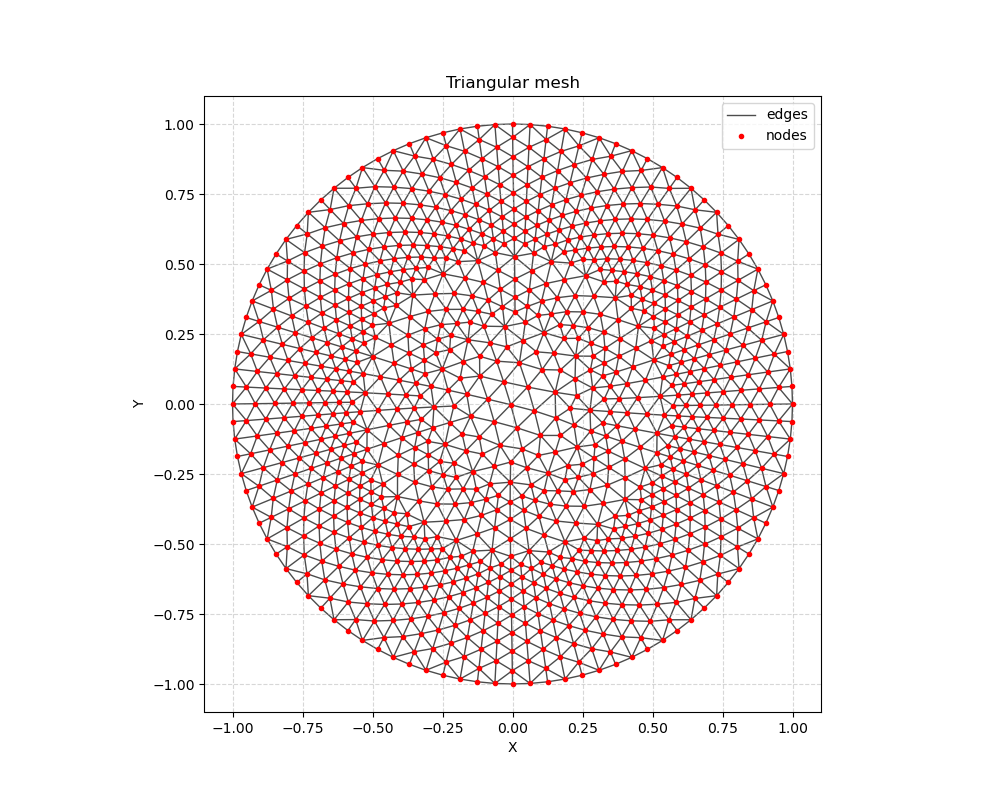
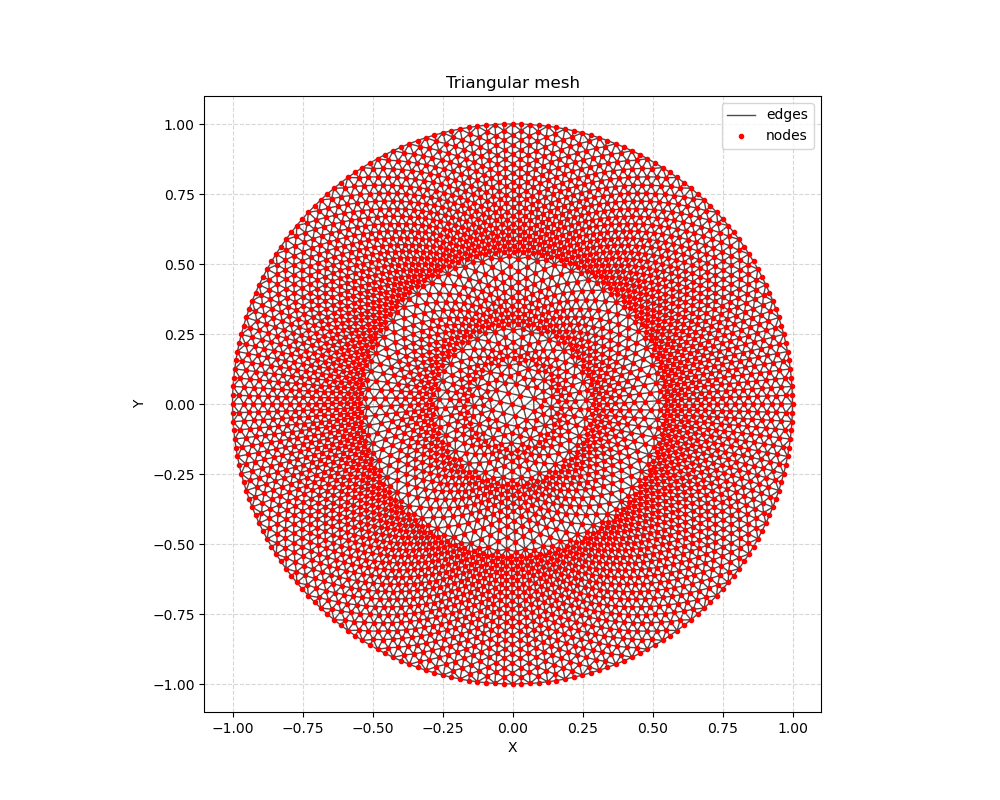
Work on Newmark

Changed region(s): [[0.217, 0.1562, 0.806, 0.875]]

diff --git a/MES2D/main.cpp b/MES2D/main.cpp
@@ -13,7 +13,7 @@
 Eigen::Matrix2d laplace_tensor(Position r)
 {
     Eigen::Matrix2d A;
-    A<<10.0, 0.0,
+    A<<1.0, 0.0,
         0.0, 1.0;
     return A;
 }
@@ -28,12 +28,17 @@ double bc_func(Position r)
     return 0.0;
 }
 
+Eigen::Vector2d v(Position r)
+{
+    return {r.y(), -r.x()};
+}
+
 int main()
 {
     GeometryParameters geoparam{
-        100,
-        2*sin(M_PI/100),
-        2*0.5*sin(M_PI/100),
+        200,
+        2*sin(M_PI/200),
+        2*0.5*sin(M_PI/200),
         100
     };
 
@@ -67,6 +72,9 @@ int main()
     std::vector<std::shared_ptr<LinearOperator>> linear_ops;
 
     bilinear_ops.push_back(std::make_shared<LaplaceIntegrator>(sh_func, laplace_tensor));
+    //bilinear_ops.push_back(std::make_shared<AdvectionIntegrator>(sh_func, v));
+
+
     linear_ops.push_back(std::make_shared<SourceIntegrator>(sh_func, load_scalar));
     std::cout<<"assembler init\n";
     Assembler assembler(dof.get_totalDOF());
@@ -105,19 +113,57 @@ int main()
     std::cout<<"assembling\n";
     assembler.assemble(dof.get_totalDOF());
     std::cout<<"solving\n";
-    Eigen::SimplicialLDLT<Eigen::SparseMatrix<double>> solver;
+
+    Eigen::SparseLU<Eigen::SparseMatrix<double>> solver;
     solver.compute(assembler.get_stiffnessM());
+
+    if(solver.info() != Eigen::Success) {
+        std::cerr << "Decomposition failed!" << std::endl;
+        return 1;
+    }
+
     Eigen::VectorXd C = solver.solve(assembler.get_loadV());
+
+    if(solver.info() != Eigen::Success) {
+        std::cerr << "Solving failed!" << std::endl;
+        return 1;
+    }
 
     //for test
     std::ofstream file_C("./outdir/C.dat");
-    for (int i = 0; i < circle.getPointNb(); i++) 
+    int vis_resolution = 10; 
+
+    for (int el_idx = 0; el_idx < circle.getElementNb(); el_idx++)
     {
-    Position p = circle.getPoint(i);
-    file_C << p.x() << "," << p.y() << "," << C(i) << "\n";
+        Triangle triangle = circle.getTriangle(el_idx);
+        ElementPointPositions acc_el_points;
+        acc_el_points.p1 = circle.getPoint(triangle.p1);
+        acc_el_points.p2 = circle.getPoint(triangle.p2);
+        acc_el_points.p3 = circle.getPoint(triangle.p3);
+
+        ElementGeometry geometry(acc_el_points);
+        const std::vector<int>& local_dofs = elements_dofs[el_idx];
+
+        for (int i = 0; i <= vis_resolution; i++)
+        {
+            for (int j = 0; j <= vis_resolution - i; j++)
+            {
+                double ksi = static_cast<double>(i) / vis_resolution;
+                double eta = static_cast<double>(j) / vis_resolution;
+
+                Position r = geometry.cartes(ksi, eta);
+                double u_val = 0.0;
+                for (int d = 0; d < local_dofs.size(); d++)
+                {
+                    int global_dof = local_dofs[d];
+                    u_val += C(global_dof) * sh_func.phi(ksi, eta, d);
+                }
+                file_C << r.x() << " " << r.y() << " " << u_val << "\n";
+            }
+        }
     }   
 
     file_C.close();
-
+    std::cout << "done!\n"; 
 
 }   

diff --git a/MES2D/solver/Quadrature.cpp b/MES2D/solver/Quadrature.cpp
@@ -21,25 +21,47 @@ Quadrature QuadratureFactory::refTriangle(int p)
 
     if (p == 1) 
     {
-        quad.add_point({1.0/3.0, 1.0/3.0}, 1.0/2.0);
+        double w = 1.0 / 6.0;
+        quad.add_point({1.0/6.0, 1.0/6.0}, w);
+        quad.add_point({2.0/3.0, 1.0/6.0}, w);
+        quad.add_point({1.0/6.0, 2.0/3.0}, w);
     }
     else if (p == 2) 
     {
 
-        quad.add_point({0.091576213, 0.091576213}, 0.109951744);
-        quad.add_point({0.091576213, 0.816847574}, 0.109951744);
-        quad.add_point({0.816847574, 0.091576213}, 0.109951744);
-        quad.add_point({0.445948491, 0.445948491}, 0.223381589);
-        quad.add_point({0.445948491, 0.108103018}, 0.223381589);
-        quad.add_point({0.108103018, 0.445948491}, 0.223381589);
+        double w1 = 0.109951743655322 / 2.0; 
+        double w2 = 0.223381589678011 / 2.0; 
+
+        quad.add_point({0.091576213509771, 0.091576213509771}, w1);
+        quad.add_point({0.091576213509771, 0.816847572980459}, w1);
+        quad.add_point({0.816847572980459, 0.091576213509771}, w1);
+        quad.add_point({0.445948490915965, 0.445948490915965}, w2);
+        quad.add_point({0.445948490915965, 0.108103018168070}, w2);
+        quad.add_point({0.108103018168070, 0.445948490915965}, w2);
     }
     else if (p == 3) 
     {
-        quad.add_point({1.0/3.0, 1.0/3.0}, -27.0/96.0);
-        quad.add_point({1.0/5.0, 1.0/5.0},  25.0/96.0);
-        quad.add_point({3.0/5.0, 1.0/5.0},  25.0/96.0);
-        quad.add_point({1.0/5.0, 3.0/5.0},  25.0/96.0);
-        }
+        double w1 = 0.025422453185103;
+        double w2 = 0.058393137863189;
+        double w3 = 0.041425537809186;
+        double w4 = 0.041425537809186;
+
+        quad.add_point({0.063089014491502, 0.063089014491502}, w1);
+        quad.add_point({0.063089014491502, 0.873821971016996}, w1);
+        quad.add_point({0.873821971016996, 0.063089014491502}, w1);
+        
+        quad.add_point({0.249286745170910, 0.249286745170910}, w2);
+        quad.add_point({0.249286745170910, 0.501426509658180}, w2);
+        quad.add_point({0.501426509658180, 0.249286745170910}, w2);
+        
+        quad.add_point({0.310352451033784, 0.053145049844816}, w3);
+        quad.add_point({0.053145049844816, 0.310352451033784}, w3);
+        quad.add_point({0.310352451033784, 0.636502499121400}, w3);
+        
+        quad.add_point({0.636502499121400, 0.310352451033784}, w4);
+        quad.add_point({0.053145049844816, 0.636502499121400}, w4);
+        quad.add_point({0.636502499121400, 0.053145049844816}, w4);
+    }
     
     return quad;
 }

diff --git a/MES2D/solver/timeDep.hpp b/MES2D/solver/timeDep.hpp
@@ -1,0 +1,35 @@
+#ifndef TIMEDEP_HPP
+#define TIMEDEP_HPP
+#include <Eigen/Sparse>
+
+struct C_vec{
+    Eigen::VectorXd C, dC, d2C;
+};
+
+
+class Newmark_beta{
+    public:
+        Newmark_beta(const Eigen::SparseMatrix<double> &m_S, const Eigen::SparseMatrix<double> &m_M, 
+            const Eigen::SparseMatrix<double> &m_D, const Eigen::VectorXd &m_F);
+        
+        void setC(Eigen::VectorXd &C);
+        void setGamma(const double gamma);
+        void setBeta(const double gamma);
+        void setDt(const double dt);
+    private:
+        const Eigen::SparseMatrix<double> m_S;
+        const Eigen::SparseMatrix<double> m_M;
+        const Eigen::SparseMatrix<double> m_D;
+        const Eigen::VectorXd m_F;
+        C_vec m_new;
+        C_vec m_old;
+
+        double m_beta;
+        double m_gamma;
+        double m_dt;
+        
+        
+};
+
+
+#endif

diff --git a/MES2D/plot/u_plot.py b/MES2D/plot/u_plot.py
@@ -1,30 +1,24 @@
 import numpy as np
 import matplotlib.pyplot as plt
-import matplotlib.tri as mtri
+import matplotlib.tri as tri
 
-print("Wczytywanie danych z ../outdir/C.dat ...")
+# Wczytanie danych
+data = np.loadtxt('../outdir/C.dat')
+x = data[:, 0]
+y = data[:, 1]
+u = data[:, 2]
 
-try:
+# Tworzenie wykresu
+plt.figure(figsize=(10, 8))
 
-    x, y, u = np.loadtxt('../outdir/C.dat', delimiter=',', unpack=True)
-except OSError:
-    print("Błąd: Nie znaleziono pliku ../outdir/C.dat! Sprawdź ścieżkę.")
-    exit()
+# tricontourf tworzy idealnie gładkie izolinie z chmury punktów
+# levels=100 oznacza wysoką płynność przejść kolorów
+contour = plt.tricontourf(x, y, u, levels=100, cmap='inferno')
 
-
-triang = mtri.Triangulation(x, y)
-
-
-plt.figure(figsize=(8, 8))
-contour = plt.tricontourf(triang, u, levels=50, cmap='inferno')
-
-
-plt.colorbar(contour, label='Wartość u (np. potencjał/temperatura)')
-plt.title('Rozwiązanie MES (Równanie Laplace\'a)')
+plt.colorbar(contour, label='Rozwiązanie U')
 plt.xlabel('Oś X')
 plt.ylabel('Oś Y')
-
-plt.axis('equal') 
-
+plt.title(f'Rozwiązanie MES (Zagęszczone)')
+plt.axis('equal') # Ważne, żeby koło nie było jajkiem!
 plt.tight_layout()
 plt.show()

diff --git a/MES2D/solver/shapeFunction.cpp b/MES2D/solver/shapeFunction.cpp
@@ -1,13 +1,28 @@
 #include "shapeFunction.hpp"
 
-ShapeFunction::ShapeFunction(int p) :  m_p(p)
+ShapeFunction::ShapeFunction(int p) : m_p(p)
 {
-    for (int k=0; k<=m_p; k++)
+    m_IJK.push_back({m_p, 0, 0});
+    m_IJK.push_back({0, m_p, 0});
+    m_IJK.push_back({0, 0, m_p});
+
+    if (m_p > 1) 
     {
-        for (int j=0; j<=m_p-k; j++)
+        
+        for (int i = m_p - 1; i >= 1; i--) m_IJK.push_back({i, m_p - i, 0});
+        for (int i = m_p - 1; i >= 1; i--) m_IJK.push_back({0, i, m_p - i});
+        for (int i = m_p - 1; i >= 1; i--) m_IJK.push_back({i, 0, m_p - i});
+    }
+
+    if (m_p > 2) 
+    {
+        for (int k = 1; k <= m_p - 2; k++) 
         {
-            int i = m_p - j - k;
-            m_IJK.push_back({i,j,k});
+            for (int j = 1; j <= m_p - k - 1; j++) 
+            {
+                int i = m_p - j - k;
+                m_IJK.push_back({i, j, k});
+            }
         }
     }
 }

diff --git a/MES2D/solver/timeDep.cpp b/MES2D/solver/timeDep.cpp
@@ -1,0 +1,16 @@
+#include "timeDep.hpp"
+
+Newmark_beta::Newmark_beta(const Eigen::SparseMatrix<double> &S, const Eigen::SparseMatrix<double> &M, 
+            const Eigen::SparseMatrix<double> &D, const Eigen::VectorXd &F) : m_S(S), m_M(M), m_D(D), m_F(F) {}
+
+void Newmark_beta::setC(Eigen::VectorXd &C)
+{
+    std::swap(m_Cnew, m_Cold);
+    std::swap(m_Cnew, C);
+}
+
+void Newmark_beta::setGamma(const double gamma) {m_gamma=gamma;}
+void Newmark_beta::setBeta(const double beta) {m_beta=beta;}
+void Newmark_beta::setDt(const double dt) {m_dt=dt;}
+
+

diff --git a/MES2D/solver/shapeFunction.hpp b/MES2D/solver/shapeFunction.hpp
@@ -22,6 +22,7 @@ class ShapeFunction{
         double get_dphi_deta(const int idx, const int sh_nb) const;
         void set_cached_values(const std::vector<std::pair<double, double>>&integration_points);
         int get_p() const;
+        double phi(double ksi ,double eta, int idx) const;
 
 
     private:
@@ -33,7 +34,7 @@ class ShapeFunction{
         std::tuple<double, double, double> lambda_gen(const double ksi, const double eta) const;
         double Silvester(const int i, const double lambda) const;
         double divSilvester(const int i, const double lambda) const;
-        double phi(double ksi ,double eta, int idx) const;
+        
         std::pair<double, double> div_phi(double ksi, double eta, int idx) const;
         
         //Position KsiEta_to_XY(double ksi, double eta) const;

diff --git a/MES2D/mesh/Grid.cpp b/MES2D/mesh/Grid.cpp
@@ -357,7 +357,7 @@ void ElementGeometry::calcJacobi()
     m_J(1,0) = m_accElement.p3.x() - m_accElement.p1.x();
     m_J(1,1) = m_accElement.p3.y() - m_accElement.p1.y();
 
-    m_J_det = m_J.determinant();
+    m_J_det = std::abs(m_J.determinant());
     m_Jinv = m_J.inverse();
 }
 

diff --git a/MES2D/solver/Physics.hpp b/MES2D/solver/Physics.hpp
@@ -74,6 +74,7 @@ class ReactionIntegrator : public BilinearOperator{
         std::function<double(Position)> m_A;
 };
 
+
 class SourceIntegrator : public LinearOperator{
     public:
         SourceIntegrator(const ShapeFunction &sh_func, const std::function<double(Position)> &A);